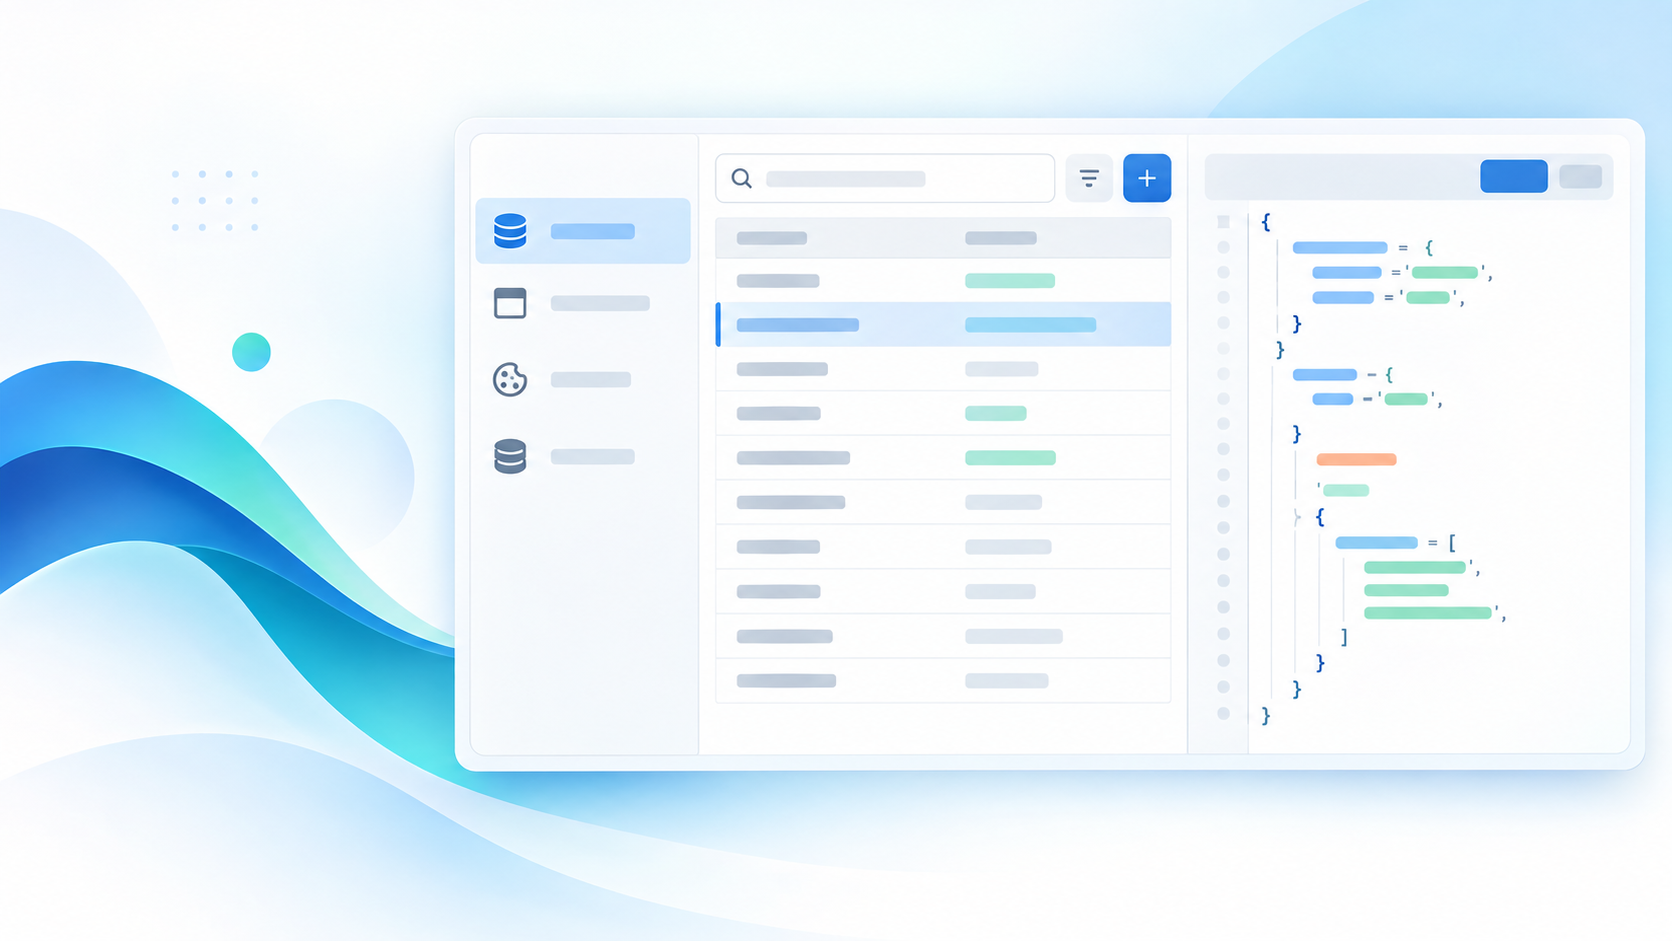
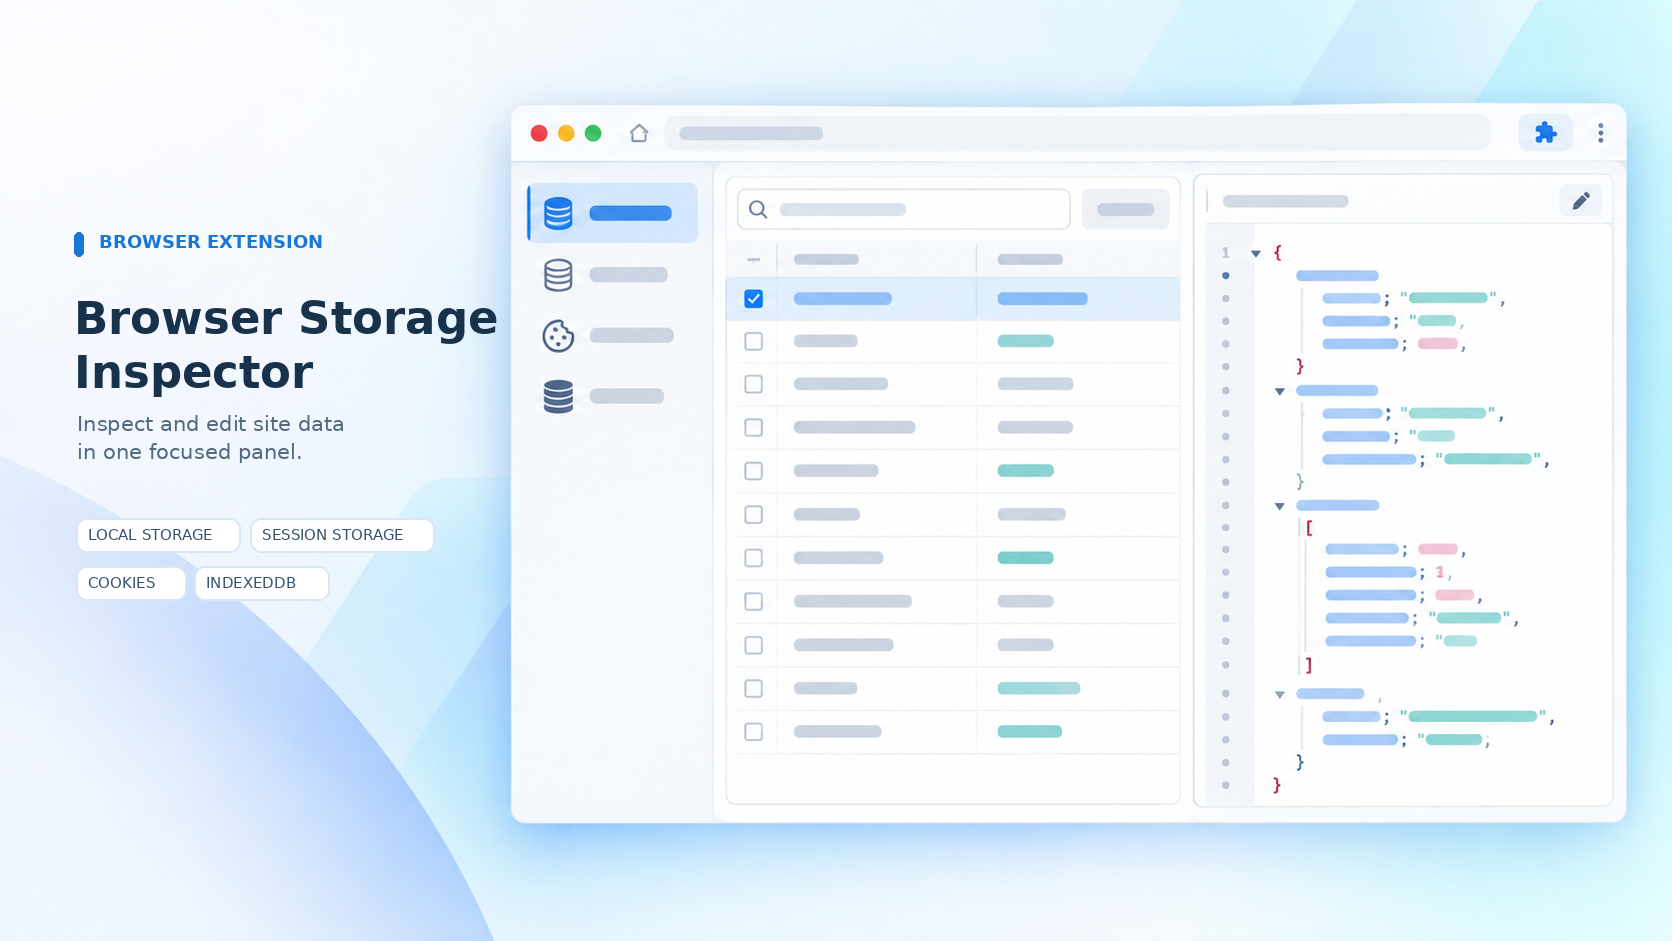
release: prepare browser storage 1.0.4

Changed region(s): [[0.0, 0.0, 1.0, 1.0], [0.0311, 0.2465, 0.1866, 0.2774], [0.9952, 0.0, 1.0, 0.0308]]

diff --git a/extension-zips.js b/extension-zips.js
@@ -32,7 +32,7 @@ function bytesToSize(bytes) {
   async function writeZip(fileName, packageDir) {
     // create a file to stream archive data to.
     const output = fs.createWriteStream(path.join(__dirname, 'zip', fileName))
-    const archive = archiver('zip', {
+    const archive = new archiver.ZipArchive({
       zlib: { level: 9 }, // Sets the compression level.
     })
 

diff --git a/README.md b/README.md
@@ -9,12 +9,17 @@
 - **Local Storage / Session Storage**：按键浏览、搜索、新增、编辑和删除数据。
 - **Cookie**：查看当前页面脚本可访问的 Cookie，并新增、覆盖或删除根路径 Cookie。
 - **IndexedDB**：按数据库和对象仓库浏览记录，新增记录，并以 JSON 编辑和保存可序列化的值。
+- **确认后清理**：可清空当前站点的 Local Storage、Session Storage、可读 Cookie，或所有 IndexedDB 记录；每项操作都会先显示确认提示。
 - **快速查找**：搜索 Storage 键名、Cookie 名称和 IndexedDB 主键。
 - **JSON 预览**：可解析为 JSON 的 Storage 值可切换格式化预览；预览为只读，不会改写原始值。
 
 ### 使用范围
 
-扩展在当前网页上下文中读取数据。浏览器不允许页面脚本读取 `HttpOnly` Cookie，因此这类 Cookie 不会显示；Cookie 管理针对根路径，不覆盖其他 `Path` 范围。IndexedDB 列表最多显示 500 条记录。IndexedDB 编辑器使用 JSON，特殊的非 JSON 结构化克隆值不适合通过文本编辑器往返保存。浏览器内置页面等受限页面无法注入扩展界面。
+扩展在当前网页上下文中读取数据。浏览器不允许页面脚本读取 `HttpOnly` Cookie，因此这类 Cookie 不会显示；Cookie 管理针对根路径，不覆盖其他 `Path` 范围。IndexedDB 列表最多显示 500 条记录。清理操作只作用于当前站点上下文。IndexedDB 编辑器使用 JSON，特殊的非 JSON 结构化克隆值不适合通过文本编辑器往返保存。浏览器内置页面等受限页面无法注入扩展界面。
+
+## Edge Add-ons listing copy (English)
+
+Inspect and manage the storage used by the site in your current tab. Browse and search Local Storage, Session Storage, page-readable Cookies, and IndexedDB databases and records. Add, edit, or remove entries, and preview JSON-compatible values in a formatted read-only view. Clear supported site data with an explicit confirmation. HttpOnly cookies and restricted browser pages are not accessible.
 
 ## 浏览器宣传图
 
@@ -26,7 +31,7 @@
 
 ![Browser Storage Inspector for Google Chrome](media/chrome-promo.png)
 
-以上为宣传用概念图，用于展示扩展的存储检查与编辑场景。
+Edge 商店主宣传图：`media/edge-promo.png`（1672 × 941）。商店所需尺寸另见 `media/edge-promo-small.png`（440 × 280）与 `media/edge-promo-large.png`（1400 × 560）。
 
 ## 安装与开发
 
